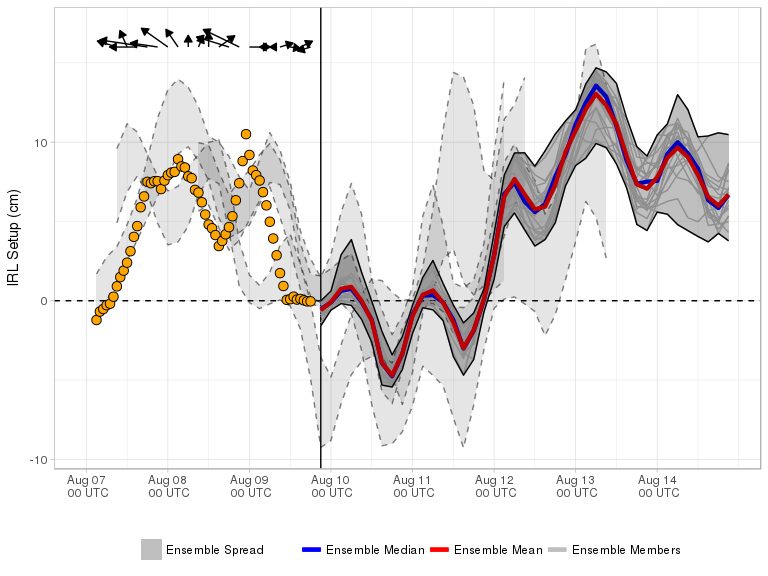
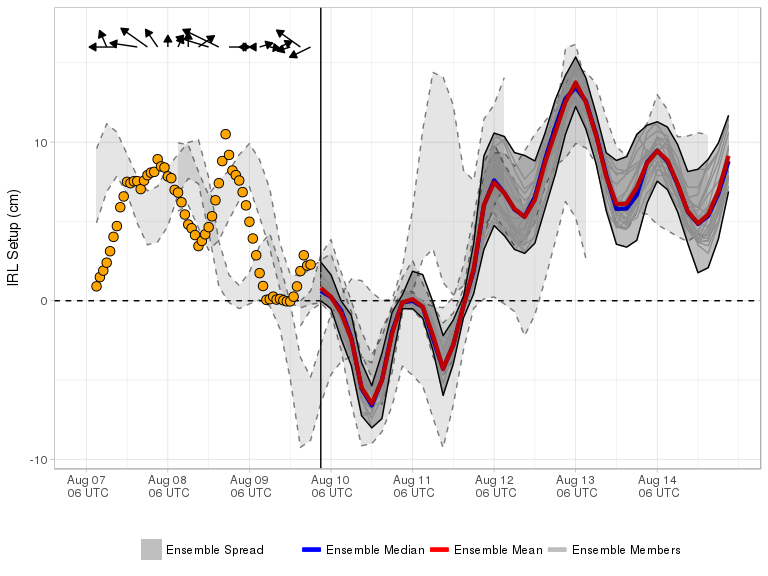
Forecast Update

Changed region(s): [[0.0938, 0.0625, 0.9688, 0.7812], [0.0938, 0.0312, 0.4062, 0.0938]]

diff --git a/docs/index.md b/docs/index.md
@@ -1,9 +1,9 @@
-Current Forecast 2018-08-09, Cycle 12UTC
+Current Forecast 2018-08-09, Cycle 18UTC
 ----------------------------------------
 
 [![](img/raw_setup.png)](https://fit-winds.github.io/IRLSetup/img/raw_setup.png)
 
-> Forecast valid 2018-08-09 15:06:26.
+> Forecast valid 2018-08-09 20:26:20.
 
 Explanation
 -----------
@@ -17,7 +17,7 @@ star), and Sebastian, FL (white star). In general, southerly (northerly)
 winds result in increased water elevation near Titusville (Sebastian)
 and positive (negative) setup.
 
-The current cycle 2018-08-09 12UTC 0.5° [Global Ensemble Forecast System
+The current cycle 2018-08-09 18UTC 0.5° [Global Ensemble Forecast System
 (GEFS)](https://www.ncdc.noaa.gov/data-access/model-data/model-datasets/global-ensemble-forecast-system-gefs)
 mean and median forecasts of setup are represented by the red and blue
 curves, respectively. Ensemble spread from the current and three
